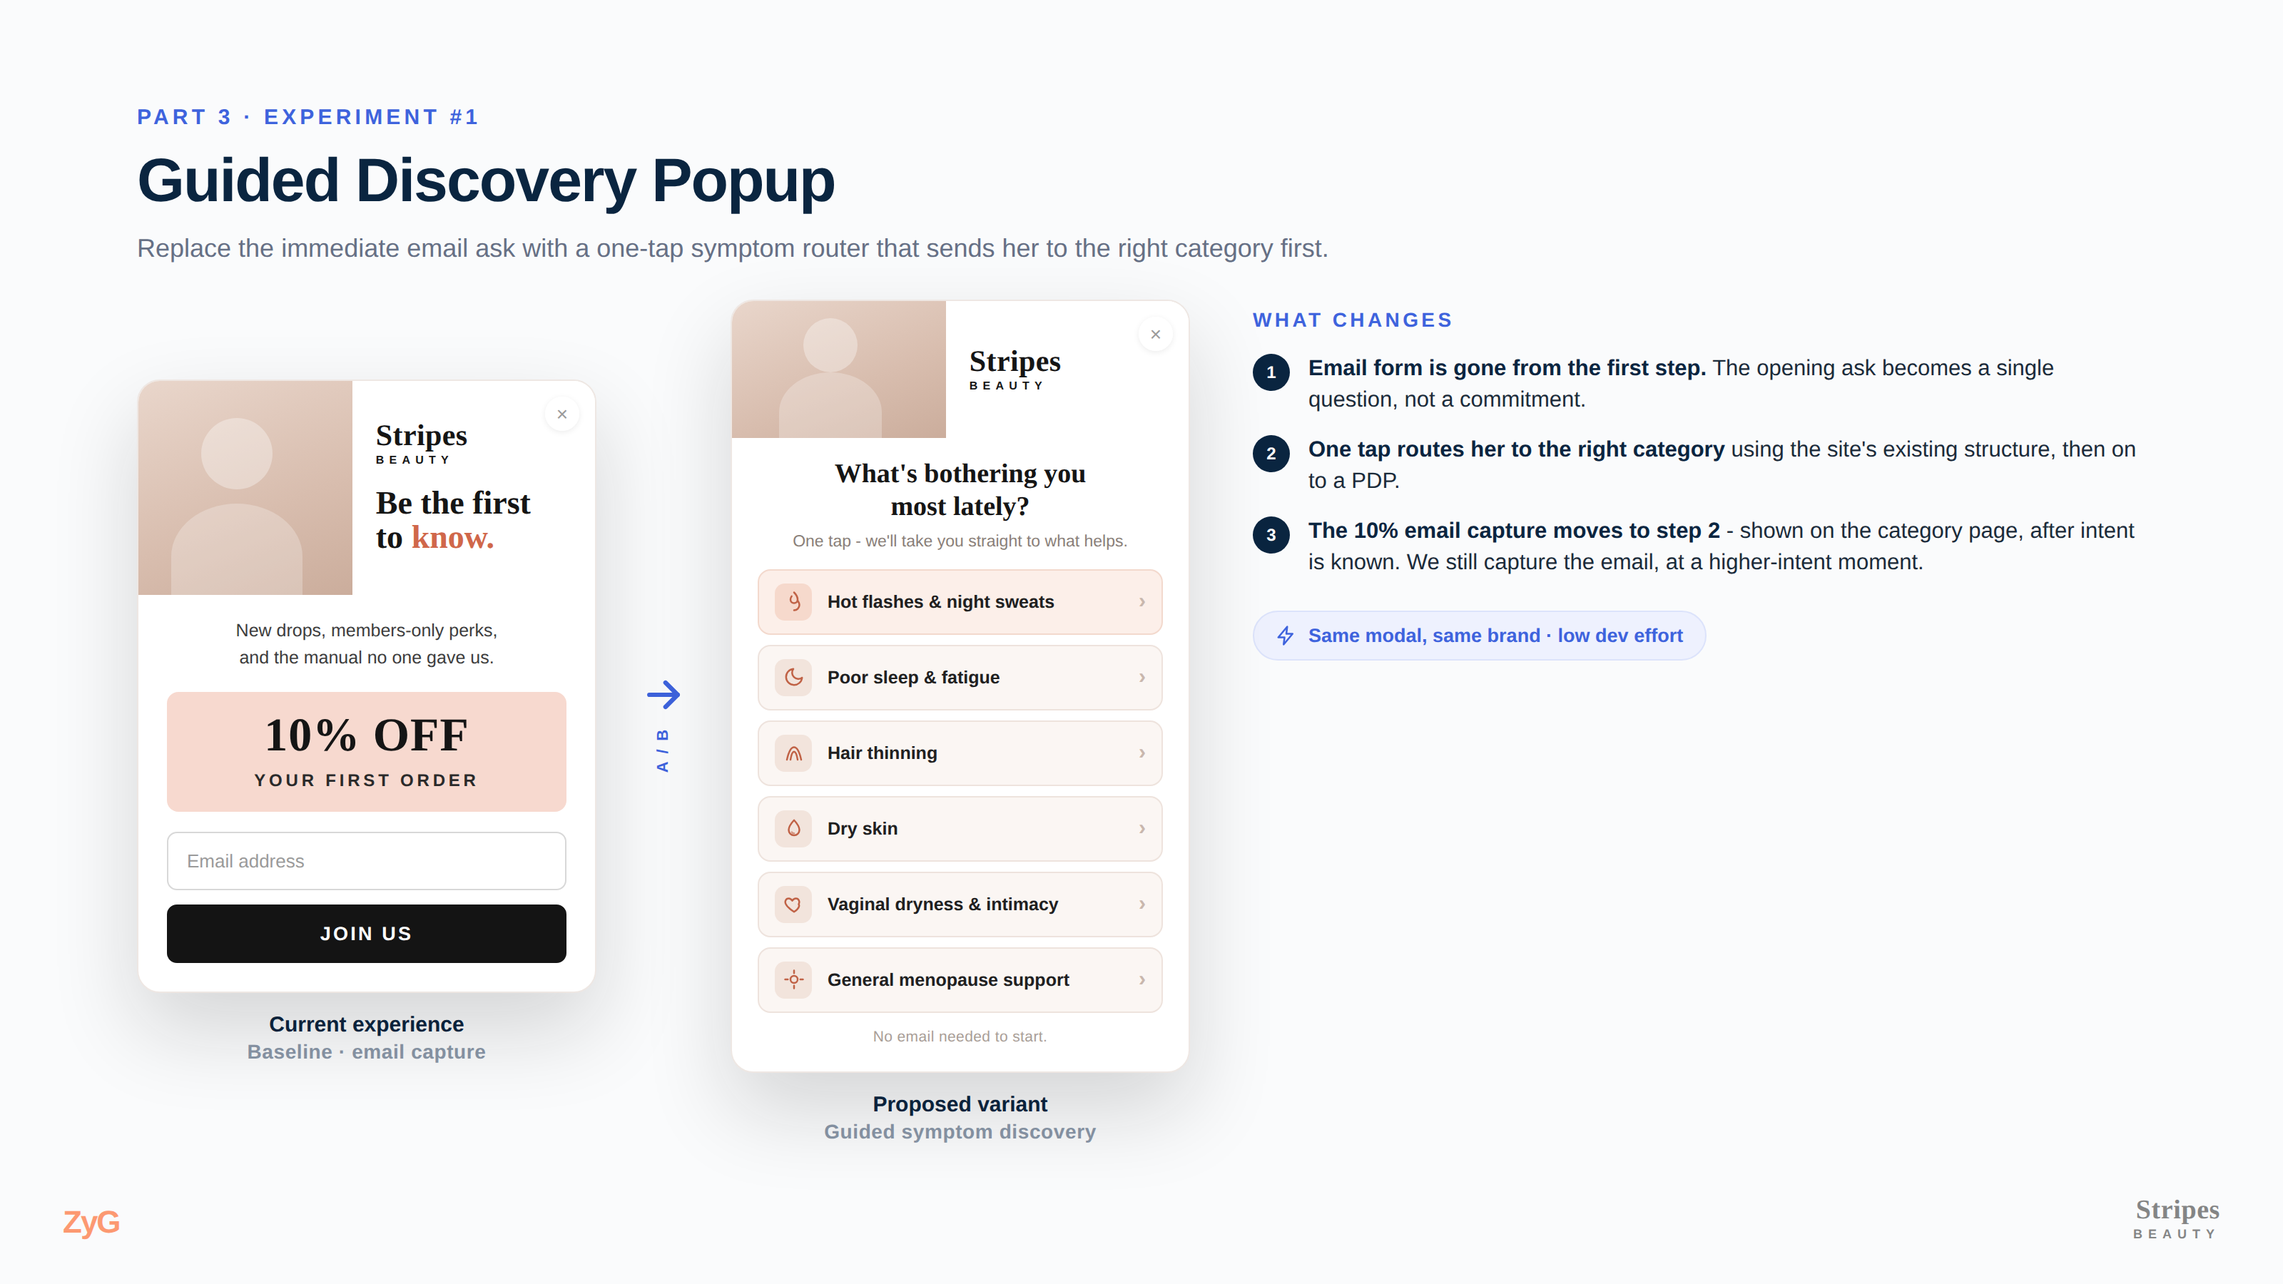
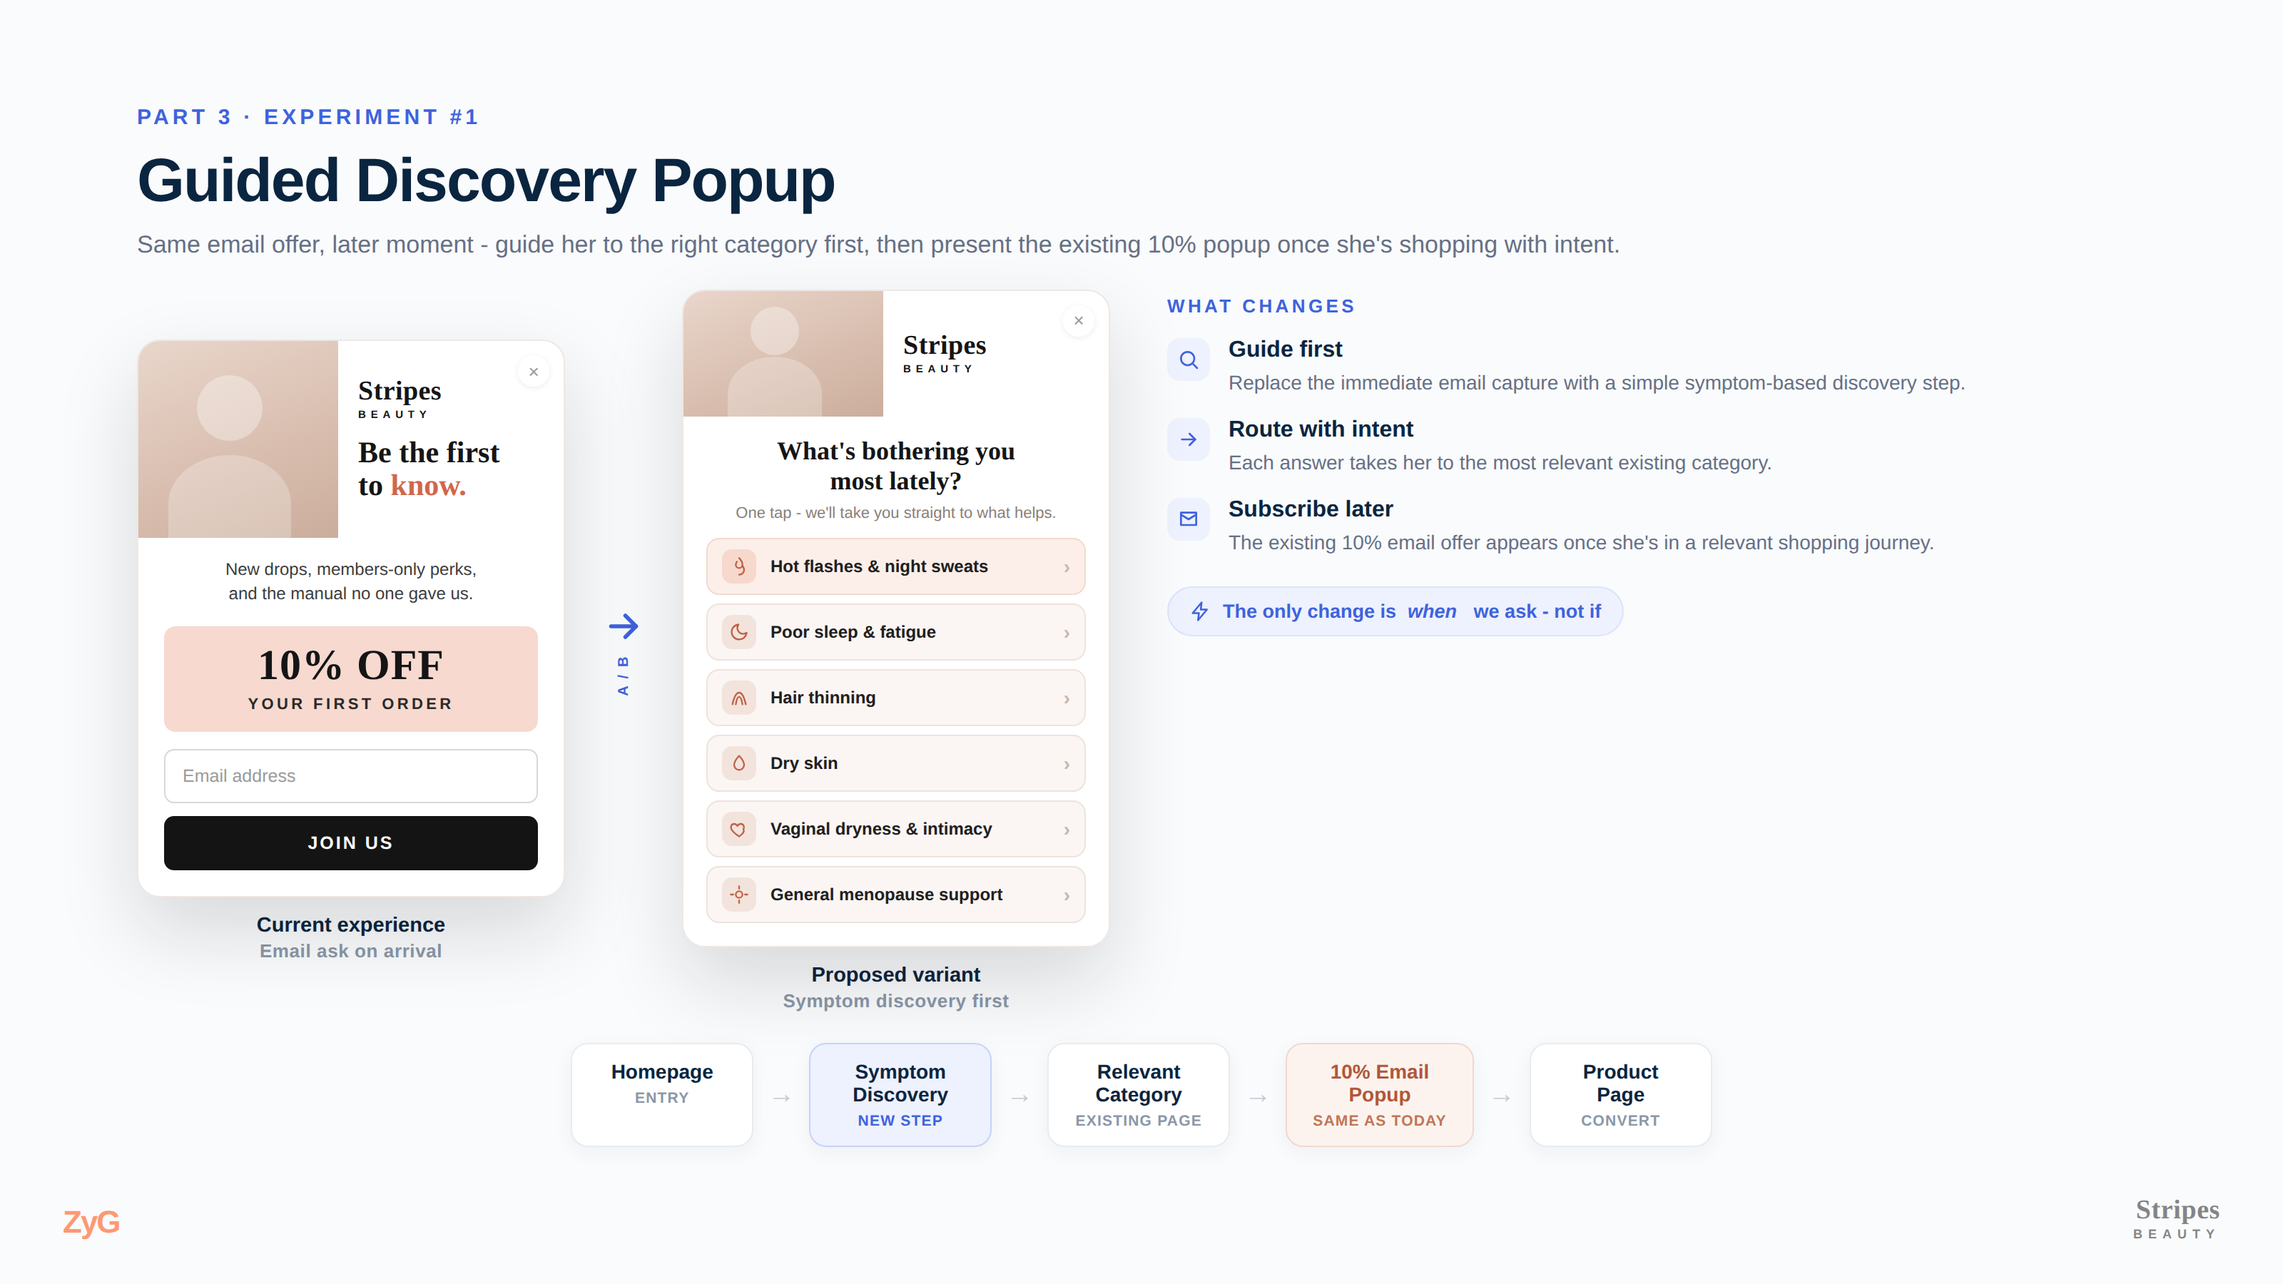
Refine Experiment #1: move (not remove) email capture
Reframe mockup to show email moved to higher-intent moment: drop misleading
'no email needed' line, rewrite What Changes (Guide first / Route with intent /
Subscribe later), add page-flow strip (Homepage -> Symptom Discovery -> Category
-> existing 10% popup -> PDP). De-dupe spec refinements.

Claude-Session: https://claude.ai/code/session_01GoAG3ySswQXo2H1hh5EwTk

diff --git a/diagrams/slides/p3-02-exp1-mockups.html b/diagrams/slides/p3-02-exp1-mockups.html
@@ -1,76 +1,82 @@
 <!doctype html><html><head><meta charset="utf-8"><link rel="stylesheet" href="style.css">
 <style>
-  /* ---- Stripes brand tokens (mockup only) ---- */
-  .stage{display:flex;align-items:flex-start;gap:44px;margin-top:22px;flex:1;}
-  .mocks{display:flex;align-items:center;gap:30px;}
-  .cap{text-align:center;margin-top:14px;font-size:14px;font-weight:600;color:var(--faint);letter-spacing:.3px;}
-  .cap b{display:block;font-size:15px;color:var(--navy);font-weight:700;letter-spacing:0;margin-bottom:2px;}
+  .stage{display:flex;align-items:flex-start;gap:40px;margin-top:18px;}
+  .mocks{display:flex;align-items:center;gap:26px;}
+  .cap{text-align:center;margin-top:12px;font-size:13px;font-weight:600;color:var(--faint);letter-spacing:.3px;}
+  .cap b{display:block;font-size:14.5px;color:var(--navy);font-weight:700;letter-spacing:0;margin-bottom:2px;}
   .arrow{display:flex;flex-direction:column;align-items:center;color:var(--blue);}
-  .arrow svg{width:34px;height:34px;}
-  .arrow .lbl{font-size:11px;font-weight:700;letter-spacing:1.4px;text-transform:uppercase;color:var(--blue);margin-top:6px;writing-mode:vertical-rl;transform:rotate(180deg);}
+  .arrow svg{width:30px;height:30px;}
+  .arrow .lbl{font-size:10px;font-weight:700;letter-spacing:1.3px;text-transform:uppercase;color:var(--blue);margin-top:5px;writing-mode:vertical-rl;transform:rotate(180deg);}
 
-  /* popup shell */
-  .pop{width:322px;background:#fff;border-radius:16px;overflow:hidden;position:relative;
-    border:1px solid #EEE7E3;box-shadow:0 26px 60px rgba(20,20,20,.16);font-family:'Helvetica Neue',Arial,sans-serif;}
-  .pop .x{position:absolute;top:11px;right:11px;width:24px;height:24px;border-radius:50%;
-    background:rgba(255,255,255,.9);display:flex;align-items:center;justify-content:center;color:#9a9a9a;font-size:14px;z-index:3;box-shadow:0 1px 4px rgba(0,0,0,.08);}
-  .serif{font-family:Georgia,'Times New Roman',serif;}
+  /* popup shell (Stripes brand) */
+  .pop{width:300px;background:#fff;border-radius:16px;overflow:hidden;position:relative;
+    border:1px solid #EEE7E3;box-shadow:0 24px 56px rgba(20,20,20,.15);font-family:'Helvetica Neue',Arial,sans-serif;}
+  .pop .x{position:absolute;top:10px;right:10px;width:22px;height:22px;border-radius:50%;
+    background:rgba(255,255,255,.9);display:flex;align-items:center;justify-content:center;color:#9a9a9a;font-size:13px;z-index:3;box-shadow:0 1px 4px rgba(0,0,0,.08);}
   .coral{color:#D0674A;}
 
-  /* banner */
-  .ban{display:flex;height:150px;}
+  .ban{display:flex;height:138px;}
   .ban .photo{width:47%;position:relative;background:linear-gradient(158deg,#E9D6CB 0%,#D8BDAE 60%,#CBAd9c 100%);overflow:hidden;}
-  .ban .photo::after{content:"";position:absolute;left:46%;top:34%;transform:translate(-50%,-50%);width:50px;height:50px;border-radius:50%;background:rgba(255,255,255,.34);}
-  .ban .photo::before{content:"";position:absolute;left:46%;bottom:-10px;transform:translateX(-50%);width:92px;height:74px;border-radius:52% 52% 0 0;background:rgba(255,255,255,.26);}
-  .ban .txt{flex:1;background:#fff;display:flex;flex-direction:column;justify-content:center;padding:0 16px;}
+  .ban .photo::after{content:"";position:absolute;left:46%;top:34%;transform:translate(-50%,-50%);width:46px;height:46px;border-radius:50%;background:rgba(255,255,255,.34);}
+  .ban .photo::before{content:"";position:absolute;left:46%;bottom:-10px;transform:translateX(-50%);width:86px;height:68px;border-radius:52% 52% 0 0;background:rgba(255,255,255,.26);}
+  .ban .txt{flex:1;background:#fff;display:flex;flex-direction:column;justify-content:center;padding:0 14px;}
   .brand{line-height:1;}
-  .brand .w{font-family:Georgia,serif;font-weight:700;font-size:21px;color:#151515;letter-spacing:.2px;}
-  .brand .b{font-size:8px;font-weight:700;letter-spacing:3.6px;color:#151515;margin-top:3px;}
-  .ban .head{font-family:Georgia,serif;font-size:23px;font-weight:700;color:#151515;line-height:1.08;margin-top:14px;}
+  .brand .w{font-family:Georgia,serif;font-weight:700;font-size:19px;color:#151515;letter-spacing:.2px;}
+  .brand .b{font-size:7.5px;font-weight:700;letter-spacing:3.4px;color:#151515;margin-top:3px;}
+  .ban .head{font-family:Georgia,serif;font-size:21px;font-weight:700;color:#151515;line-height:1.08;margin-top:12px;}
 
-  .body{padding:16px 20px 20px;}
-  .sub{text-align:center;font-size:12.5px;color:#3d3d3d;line-height:1.45;}
+  .body{padding:14px 18px 18px;}
+  .sub{text-align:center;font-size:12px;color:#3d3d3d;line-height:1.45;}
+  .band{background:#F7D9CF;border-radius:8px;text-align:center;padding:13px 10px;margin-top:13px;}
+  .band .off{font-family:Georgia,serif;font-size:30px;font-weight:700;color:#151515;line-height:1;letter-spacing:.5px;}
+  .band .sm{font-size:11px;font-weight:600;letter-spacing:2.2px;color:#2a2a2a;margin-top:6px;}
+  .inp{margin-top:12px;border:1px solid #D8D8D8;border-radius:7px;padding:11px 12px;font-size:12.5px;color:#9a9a9a;}
+  .btn{margin-top:9px;background:#141414;color:#fff;text-align:center;border-radius:7px;padding:12px;font-size:12.5px;font-weight:700;letter-spacing:1.5px;}
 
-  /* current: offer band + form */
-  .band{background:#F7D9CF;border-radius:8px;text-align:center;padding:15px 10px;margin-top:15px;}
-  .band .off{font-family:Georgia,serif;font-size:33px;font-weight:700;color:#151515;line-height:1;letter-spacing:.5px;}
-  .band .sm{font-size:12px;font-weight:600;letter-spacing:2.4px;color:#2a2a2a;margin-top:7px;}
-  .inp{margin-top:14px;border:1px solid #D8D8D8;border-radius:7px;padding:12px 13px;font-size:13px;color:#9a9a9a;}
-  .btn{margin-top:10px;background:#141414;color:#fff;text-align:center;border-radius:7px;padding:13px;font-size:13.5px;font-weight:700;letter-spacing:1.6px;}
-
-  /* variant: slim banner + question + options */
-  .ban.slim{height:96px;}
-  .ban.slim .photo::after{top:32%;width:38px;height:38px;}
-  .ban.slim .photo::before{width:72px;height:56px;}
+  .ban.slim{height:88px;}
+  .ban.slim .photo::after{top:32%;width:34px;height:34px;}
+  .ban.slim .photo::before{width:66px;height:52px;}
   .ban.slim .head{display:none;}
-  .qwrap{padding:15px 18px 18px;}
-  .q{font-family:Georgia,serif;font-size:19px;font-weight:700;color:#151515;line-height:1.2;text-align:center;}
-  .qsub{text-align:center;font-size:11.5px;color:#8a7f79;margin-top:6px;}
-  .opts{margin-top:13px;display:flex;flex-direction:column;gap:7px;}
-  .opt{display:flex;align-items:center;gap:11px;background:#FBF6F3;border:1px solid #EEE3DD;border-radius:9px;padding:9px 11px;}
+  .qwrap{padding:14px 16px 16px;}
+  .q{font-family:Georgia,serif;font-size:18px;font-weight:700;color:#151515;line-height:1.2;text-align:center;}
+  .qsub{text-align:center;font-size:11px;color:#8a7f79;margin-top:5px;}
+  .opts{margin-top:11px;display:flex;flex-direction:column;gap:6px;}
+  .opt{display:flex;align-items:center;gap:10px;background:#FBF6F3;border:1px solid #EEE3DD;border-radius:9px;padding:7px 10px;}
   .opt.hot{background:#FCEFE9;border-color:#F3D9CD;}
-  .opt .ic{width:26px;height:26px;border-radius:7px;background:#F2E4DC;display:flex;align-items:center;justify-content:center;color:#C06246;flex-shrink:0;}
+  .opt .ic{width:24px;height:24px;border-radius:7px;background:#F2E4DC;display:flex;align-items:center;justify-content:center;color:#C06246;flex-shrink:0;}
   .opt.hot .ic{background:#F6D9CC;}
-  .opt .ic svg{width:15px;height:15px;}
-  .opt .lb{flex:1;font-size:12.5px;font-weight:600;color:#20201f;}
-  .opt .cv{color:#C9B7AD;font-size:15px;font-weight:700;}
-  .noem{text-align:center;font-size:10.5px;color:#a99e97;margin-top:11px;letter-spacing:.2px;}
+  .opt .ic svg{width:14px;height:14px;}
+  .opt .lb{flex:1;font-size:12px;font-weight:600;color:#20201f;}
+  .opt .cv{color:#C9B7AD;font-size:14px;font-weight:700;}
 
   /* right rail */
-  .rail{flex:1;padding-top:6px;}
-  .rail h3{font-size:14px;font-weight:700;letter-spacing:2.2px;text-transform:uppercase;color:var(--blue);}
-  .chg{margin-top:16px;display:flex;flex-direction:column;gap:13px;}
+  .rail{flex:1;padding-top:4px;}
+  .rail h3{font-size:13px;font-weight:700;letter-spacing:2.2px;text-transform:uppercase;color:var(--blue);}
+  .chg{margin-top:15px;display:flex;flex-direction:column;gap:15px;}
   .ci{display:flex;gap:13px;}
-  .ci .n{width:26px;height:26px;border-radius:50%;background:var(--navy);color:#fff;font-size:12px;font-weight:700;display:flex;align-items:center;justify-content:center;flex-shrink:0;}
-  .ci .t{font-size:15.5px;color:var(--ink);line-height:1.42;}
-  .ci .t b{color:var(--navy);font-weight:700;}
-  .efftag{display:inline-flex;align-items:center;gap:8px;margin-top:22px;background:var(--blue-soft);border:1px solid #DCE3FB;border-radius:999px;padding:9px 15px;font-size:13.5px;color:var(--blue);font-weight:600;}
+  .ci .n{width:30px;height:30px;border-radius:9px;background:var(--blue-soft);color:var(--blue);display:flex;align-items:center;justify-content:center;flex-shrink:0;}
+  .ci .n svg{width:16px;height:16px;}
+  .ci .h{font-size:16px;font-weight:700;color:var(--navy);}
+  .ci .t{font-size:14px;color:var(--muted);line-height:1.45;margin-top:3px;}
+  .efftag{display:inline-flex;align-items:center;gap:8px;margin-top:20px;background:var(--blue-soft);border:1px solid #DCE3FB;border-radius:999px;padding:9px 15px;font-size:13.5px;color:var(--blue);font-weight:600;}
   .efftag svg{width:15px;height:15px;}
+
+  /* bottom page flow */
+  .flow{display:flex;align-items:stretch;justify-content:center;gap:10px;margin-top:22px;}
+  .fstep{background:#fff;border:1px solid var(--line);border-radius:12px;padding:11px 18px;text-align:center;box-shadow:0 4px 14px rgba(16,42,77,.05);min-width:128px;position:relative;}
+  .fstep .ft{font-size:14px;font-weight:700;color:var(--navy);line-height:1.15;}
+  .fstep .fs{font-size:10.5px;font-weight:700;letter-spacing:.6px;text-transform:uppercase;margin-top:5px;color:var(--faint);}
+  .fstep.new{border-color:#C7D2F7;background:var(--blue-soft);}
+  .fstep.new .fs{color:var(--blue);}
+  .fstep.keep{border-color:#F1D8CE;background:#FCF3EF;}
+  .fstep.keep .ft{color:#B15738;}
+  .fstep.keep .fs{color:#C27553;}
+  .fsep{display:flex;align-items:center;color:#C2CBD8;font-size:19px;font-weight:700;}
 </style></head><body>
 <div class="slide">
   <div class="kicker">Part 3 &middot; Experiment #1</div>
   <div class="h1">Guided Discovery Popup</div>
-  <div class="lead" style="margin-top:10px;font-size:18px;">Replace the immediate email ask with a one-tap symptom router that sends her to the right category first.</div>
+  <div class="lead" style="margin-top:8px;font-size:17px;">Same email offer, later moment - guide her to the right category first, then present the existing 10% popup once she's shopping with intent.</div>
 
   <div class="stage">
     <div class="mocks">
@@ -95,7 +101,7 @@
             <div class="btn">JOIN US</div>
           </div>
         </div>
-        <div class="cap"><b>Current experience</b>Baseline &middot; email capture</div>
+        <div class="cap"><b>Current experience</b>Email ask on arrival</div>
       </div>
 
       <div class="arrow">
@@ -130,7 +136,7 @@
                 <div class="lb">Hair thinning</div><div class="cv">&rsaquo;</div>
               </div>
               <div class="opt">
-                <div class="ic"><svg viewBox="0 0 24 24" fill="none" stroke="currentColor" stroke-width="2" stroke-linecap="round" stroke-linejoin="round"><path d="M12 3s6 6.5 6 11a6 6 0 0 1-12 0c0-4.5 6-11 6-11z"/><path d="M9.5 16.5a3 3 0 0 0 2.5 1.3" opacity=".6"/></svg></div>
+                <div class="ic"><svg viewBox="0 0 24 24" fill="none" stroke="currentColor" stroke-width="2" stroke-linecap="round" stroke-linejoin="round"><path d="M12 3s6 6.5 6 11a6 6 0 0 1-12 0c0-4.5 6-11 6-11z"/></svg></div>
                 <div class="lb">Dry skin</div><div class="cv">&rsaquo;</div>
               </div>
               <div class="opt">
@@ -142,22 +148,43 @@
                 <div class="lb">General menopause support</div><div class="cv">&rsaquo;</div>
               </div>
             </div>
-            <div class="noem">No email needed to start.</div>
           </div>
         </div>
-        <div class="cap"><b>Proposed variant</b>Guided symptom discovery</div>
+        <div class="cap"><b>Proposed variant</b>Symptom discovery first</div>
       </div>
     </div>
 
     <div class="rail">
       <h3>What changes</h3>
       <div class="chg">
-        <div class="ci"><div class="n">1</div><div class="t"><b>Email form is gone from the first step.</b> The opening ask becomes a single question, not a commitment.</div></div>
-        <div class="ci"><div class="n">2</div><div class="t"><b>One tap routes her to the right category</b> using the site's existing structure, then on to a PDP.</div></div>
-        <div class="ci"><div class="n">3</div><div class="t"><b>The 10% email capture moves to step 2</b> - shown on the category page, after intent is known. We still capture the email, at a higher-intent moment.</div></div>
+        <div class="ci">
+          <div class="n"><svg viewBox="0 0 24 24" fill="none" stroke="currentColor" stroke-width="2" stroke-linecap="round" stroke-linejoin="round"><circle cx="11" cy="11" r="7"/><path d="M21 21l-4-4"/></svg></div>
+          <div><div class="h">Guide first</div><div class="t">Replace the immediate email capture with a simple symptom-based discovery step.</div></div>
+        </div>
+        <div class="ci">
+          <div class="n"><svg viewBox="0 0 24 24" fill="none" stroke="currentColor" stroke-width="2" stroke-linecap="round" stroke-linejoin="round"><path d="M5 12h14"/><path d="M13 6l6 6-6 6"/></svg></div>
+          <div><div class="h">Route with intent</div><div class="t">Each answer takes her to the most relevant existing category.</div></div>
+        </div>
+        <div class="ci">
+          <div class="n"><svg viewBox="0 0 24 24" fill="none" stroke="currentColor" stroke-width="2" stroke-linecap="round" stroke-linejoin="round"><path d="M4 5h16v13H4z"/><path d="M4 7l8 5 8-5"/></svg></div>
+          <div><div class="h">Subscribe later</div><div class="t">The existing 10% email offer appears once she's in a relevant shopping journey.</div></div>
+        </div>
       </div>
-      <div class="efftag"><svg viewBox="0 0 24 24" fill="none" stroke="currentColor" stroke-width="2" stroke-linecap="round" stroke-linejoin="round"><path d="M13 2L3 14h7l-1 8 10-12h-7z"/></svg>Same modal, same brand &middot; low dev effort</div>
+      <div class="efftag"><svg viewBox="0 0 24 24" fill="none" stroke="currentColor" stroke-width="2" stroke-linecap="round" stroke-linejoin="round"><path d="M13 2L3 14h7l-1 8 10-12h-7z"/></svg>The only change is <i style="font-style:italic;font-weight:700;">when</i>&nbsp;we ask - not if</div>
     </div>
+  </div>
+
+  <!-- page flow -->
+  <div class="flow">
+    <div class="fstep"><div class="ft">Homepage</div><div class="fs">Entry</div></div>
+    <div class="fsep">&rarr;</div>
+    <div class="fstep new"><div class="ft">Symptom<br>Discovery</div><div class="fs">New step</div></div>
+    <div class="fsep">&rarr;</div>
+    <div class="fstep"><div class="ft">Relevant<br>Category</div><div class="fs">Existing page</div></div>
+    <div class="fsep">&rarr;</div>
+    <div class="fstep keep"><div class="ft">10% Email<br>Popup</div><div class="fs">Same as today</div></div>
+    <div class="fsep">&rarr;</div>
+    <div class="fstep"><div class="ft">Product<br>Page</div><div class="fs">Convert</div></div>
   </div>
 
   <div class="foot"><div class="zyg">ZyG</div><div class="stripes"><div class="word">Stripes</div><div class="beauty">BEAUTY</div></div></div>

diff --git a/diagrams/slides/p3-03-exp1-spec.html b/diagrams/slides/p3-03-exp1-spec.html
@@ -81,7 +81,7 @@
     <div class="refine">
       <div class="hd"><svg viewBox="0 0 24 24" fill="none" stroke="currentColor" stroke-width="2" stroke-linecap="round" stroke-linejoin="round"><path d="M12 2l2.4 7.4H22l-6 4.6 2.3 7-6.3-4.6L5.7 21l2.3-7-6-4.6h7.6z"/></svg>UX refinements (hypothesis unchanged)</div>
       <ul>
-        <li><b>Move the 10% email capture to step 2</b> - protects email signup at higher intent.</li>
+        <li><b>Labels mirror the site's category names</b> so the handoff feels native.</li>
         <li><b>Icons + chevrons</b> so options read as navigation, not a form.</li>
         <li><b>Slimmer hero</b> to elevate the question and the tap targets.</li>
         <li><b>"General support"</b> as a no-wrong-answer path for the unsure.</li>
